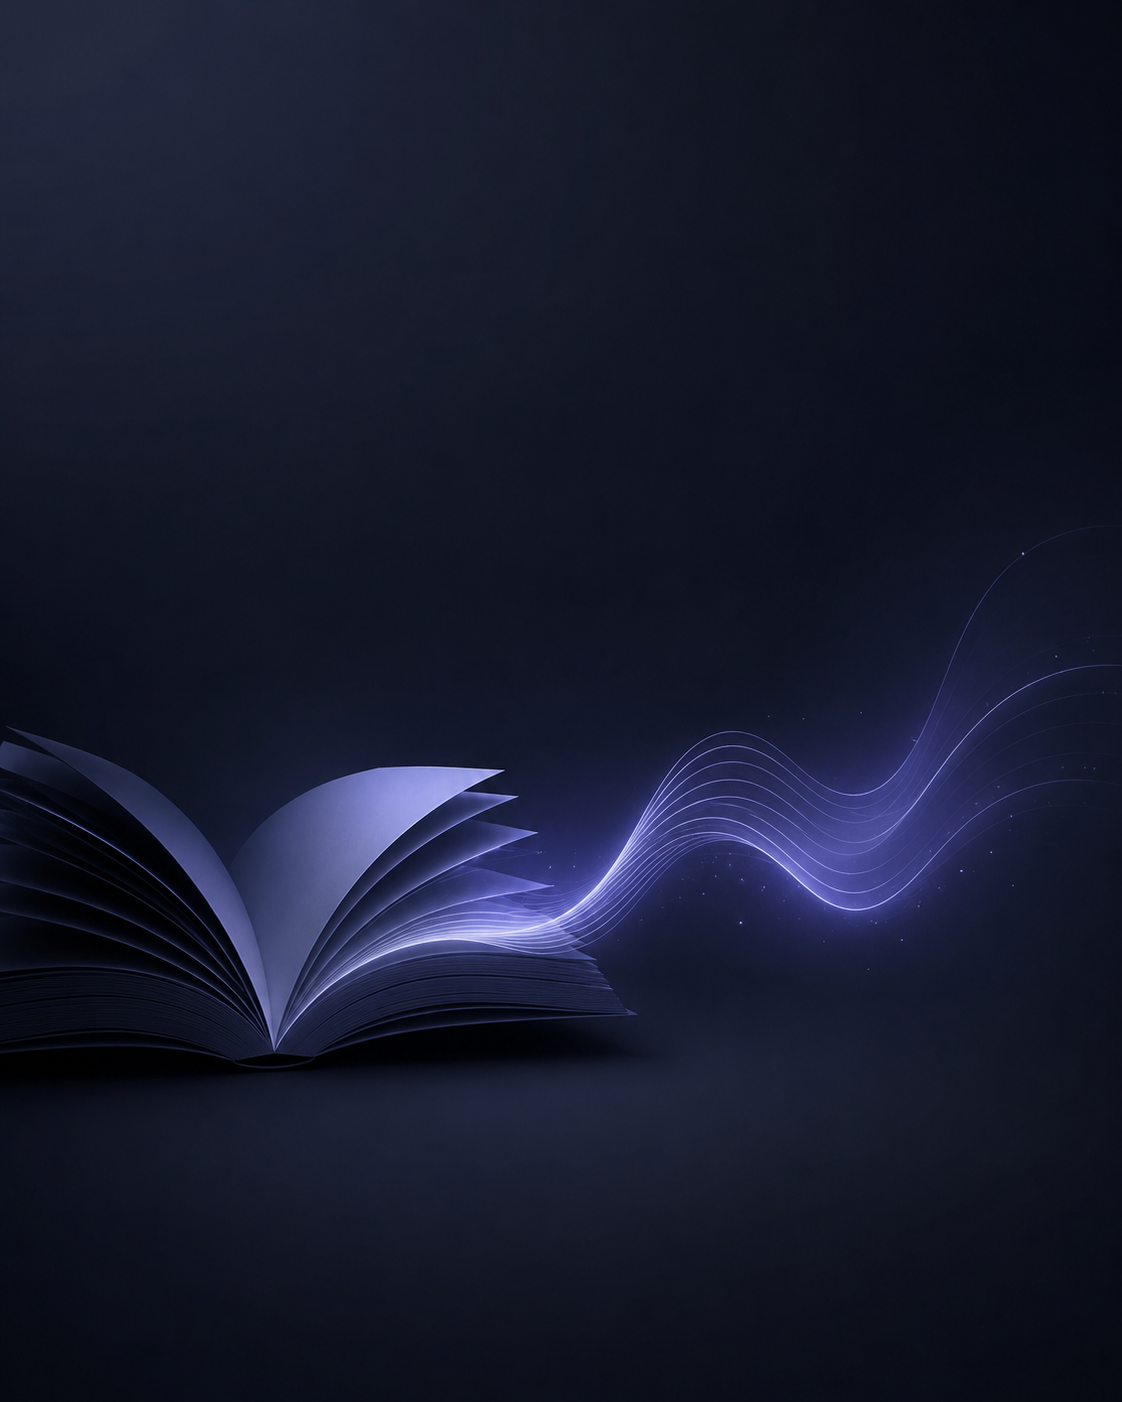
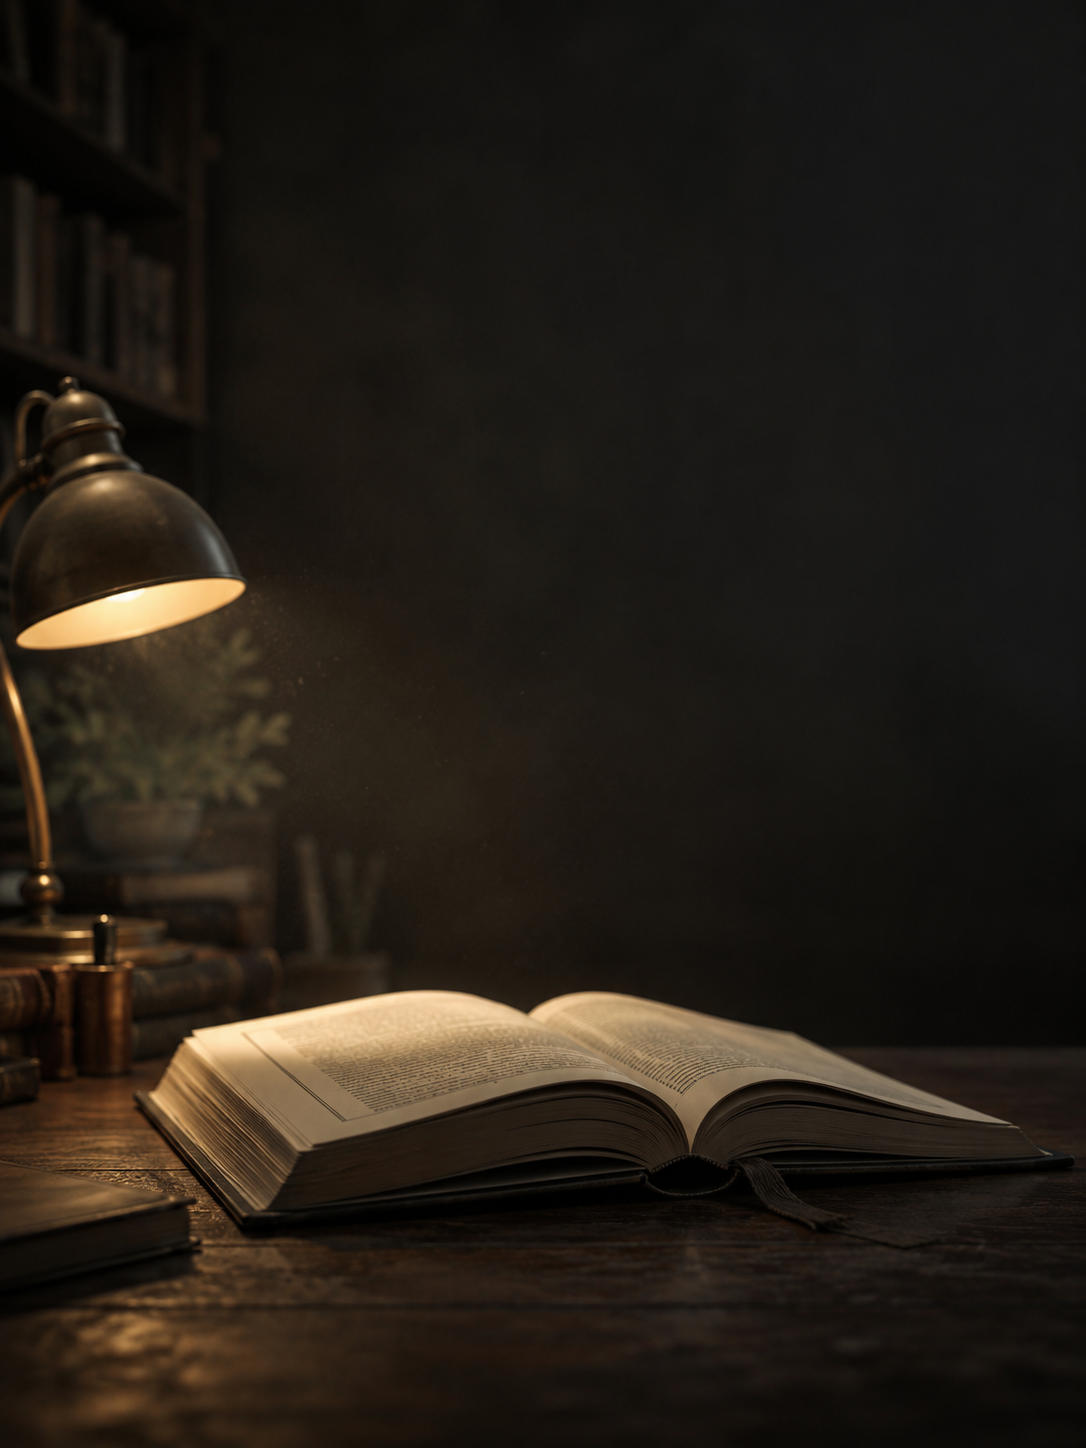
Fix login brand panel: full-height atmosphere, no scratch hero.
Stop auto-using public images; remove the temporary login-hero.png that was wired by mistake.

diff --git a/frontend/src/features/auth/components/LoginBrandPanel.tsx b/frontend/src/features/auth/components/LoginBrandPanel.tsx
@@ -1,14 +1,14 @@
 /**
  * Brand / atmosphere half of the login split.
- * Drop `frontend/public/login-hero.png` (or .jpg) to activate the photo layer.
+ * When you have art, put it at `public/login-hero.png` and we can wire it —
+ * do not drop random files into public expecting them to auto-bind.
  */
 export function LoginBrandPanel() {
   return (
     <section
-      className="login-brand relative flex min-h-[38vh] flex-col justify-end overflow-hidden p-8 sm:min-h-0 sm:p-12 lg:p-16"
+      className="login-brand relative flex h-full min-h-[42vh] flex-col justify-end overflow-hidden p-8 sm:p-12 lg:min-h-full lg:p-16"
       aria-label="Read To Me"
     >
-      <LoginHeroImage />
       <div
         className="login-brand-atmosphere pointer-events-none absolute inset-0"
         aria-hidden
@@ -22,19 +22,5 @@ export function LoginBrandPanel() {
         </p>
       </div>
     </section>
-  )
-}
-
-function LoginHeroImage() {
-  return (
-    <img
-      src="/login-hero.png"
-      alt=""
-      decoding="async"
-      className="login-brand-photo pointer-events-none absolute inset-0 h-full w-full object-cover object-[center_70%]"
-      onError={(event) => {
-        event.currentTarget.hidden = true
-      }}
-    />
   )
 }

diff --git a/frontend/src/features/auth/components/LoginPage.tsx b/frontend/src/features/auth/components/LoginPage.tsx
@@ -8,10 +8,10 @@ export function LoginPage() {
 
   return (
     <div className="flex min-h-dvh flex-col bg-background text-foreground lg:flex-row">
-      <div className="lg:w-[54%]">
+      <div className="lg:flex lg:w-[54%] lg:min-h-dvh lg:flex-col">
         <LoginBrandPanel />
       </div>
-      <div className="flex flex-1 border-t border-border lg:border-l lg:border-t-0">
+      <div className="flex flex-1 border-t border-border lg:min-h-dvh lg:border-l lg:border-t-0">
         <LoginActionColumn
           pending={state.status === 'pending'}
           errorReason={errorReason}

diff --git a/frontend/src/index.css b/frontend/src/index.css
@@ -163,17 +163,6 @@ body {
     linear-gradient(165deg, #292524 0%, #1c1917 42%, #0c0a09 100%);
 }
 
-/* When a hero photo is present, keep type readable over glow/detail. */
-.login-brand-photo:not([hidden]) ~ .login-brand-atmosphere {
-  background:
-    linear-gradient(180deg, rgba(12, 10, 9, 0.2) 0%, rgba(12, 10, 9, 0.78) 100%),
-    linear-gradient(90deg, rgba(12, 10, 9, 0.25) 0%, transparent 60%);
-}
-
-.login-brand-photo[hidden] {
-  display: none;
-}
-
 @keyframes rtm-skeleton-sweep {
   from {
     background-position: -200% 0;

diff --git a/frontend/public/LOGIN_HERO.md b/frontend/public/LOGIN_HERO.md
@@ -1,6 +1,7 @@
-# Login hero image
+# Login hero image (optional — not wired yet)
 
-Canonical file: **`login-hero.png`** (also works if you swap the `src` to `.jpg`).
+When you have a final asset, tell the agent to wire it. Suggested path:
 
-Recommended: wide or portrait reading mood, no baked-in text. The brand panel
-applies a dark gradient so **RTM** stays readable at the bottom.
+`frontend/public/login-hero.png`
+
+Do not drop scratch files into `public/` expecting them to appear on login.
